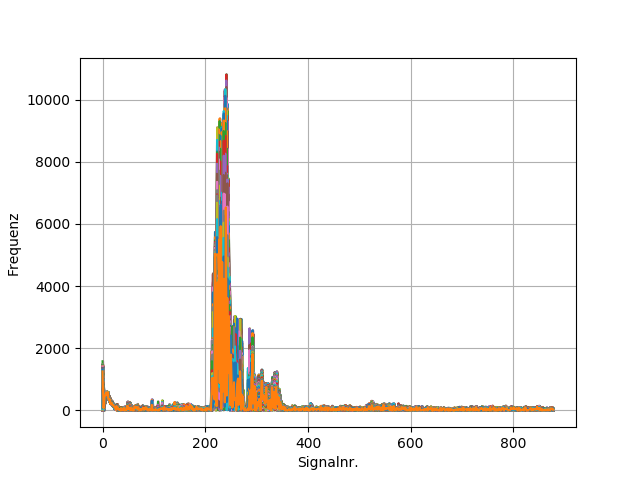
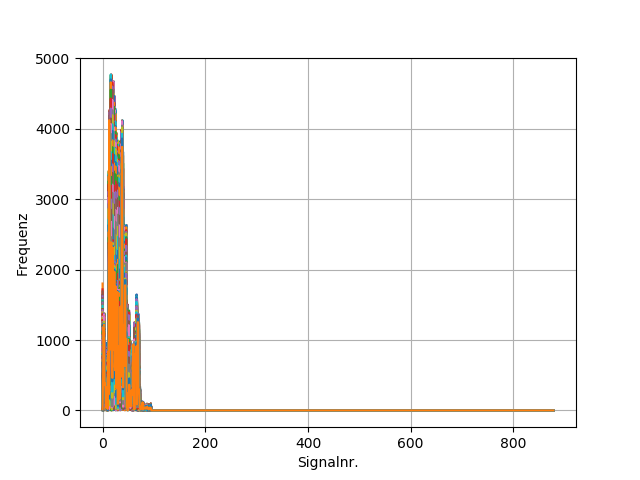
Added function to read all files and give out plots

diff --git a/Versuch4/task2.1.py b/Versuch4/task2.1.py
@@ -1,0 +1,57 @@
+from scipy import signal
+
+import matplotlib.pyplot as plt
+import numpy as np
+
+# Einlesen der .csv Datei
+
+num = ["hoch1", "hoch2", "hoch3", "hoch4", "hoch5", "tief1", "tief2", "tief3", "tief4", "tief5", "links1", "links2",
+       "links3", "links4", "links5", "rechts1", "rechts2", "rechts3", "rechts4", "rechts5"]
+gaussianwindow = signal.windows.gaussian(512, std=4)
+
+# Darstellung des Amplitudenspektrums
+plt.plot(gaussianwindow)
+plt.grid(True)
+plt.xlabel('Signalnr.')
+plt.ylabel('Frequenz')
+plt.savefig('data/img/' + num[a] + 'gauss.png')
+plt.show()
+
+for a in range(0, 20):
+    data = np.load('data/' + str(num[a]) + '.npy')
+    window = np.zeros((86, 512))
+    z = 256
+
+    for y in range(0, 86):
+        z = z - 256
+        for x in range(0, 512):
+            window[y, x] = np.mean(np.abs(np.fft.fft(data[z] * gaussianwindow)))
+            z = z + 1
+        # plt.plot(window[y])
+        # plt.title('Windownr' + str(y+1))
+        # plt.xlabel('Signalnr.')
+        # plt.ylabel('Frequenz')
+        # plt.grid(True)
+        # plt.savefig('data/img/' + str(y) + '.png')
+        # plt.show()
+
+    # Darstellung des Amplitudenspektrums
+    plt.plot(window)
+    plt.grid(True)
+    plt.xlabel('Signalnr.')
+    plt.ylabel('Frequenz')
+    plt.savefig('data/img/' + num[a] + 'Alle.png')
+    plt.show()
+
+    for y in range(0, 86):
+        for x in range(0, 512):
+            window[y][x] = window[y][x] * gaussianwindow[x]
+        window[y] = np.abs(np.fft.fft(window[y]))
+        window[y] = np.mean(window[y])
+
+    plt.plot(window, 'r')
+    plt.grid(True)
+    plt.xlabel('Signalnr.')
+    plt.ylabel('Frequenz')
+    plt.savefig('data/img/' + num[a] + 'AlleRichtig.png')
+    plt.show()
